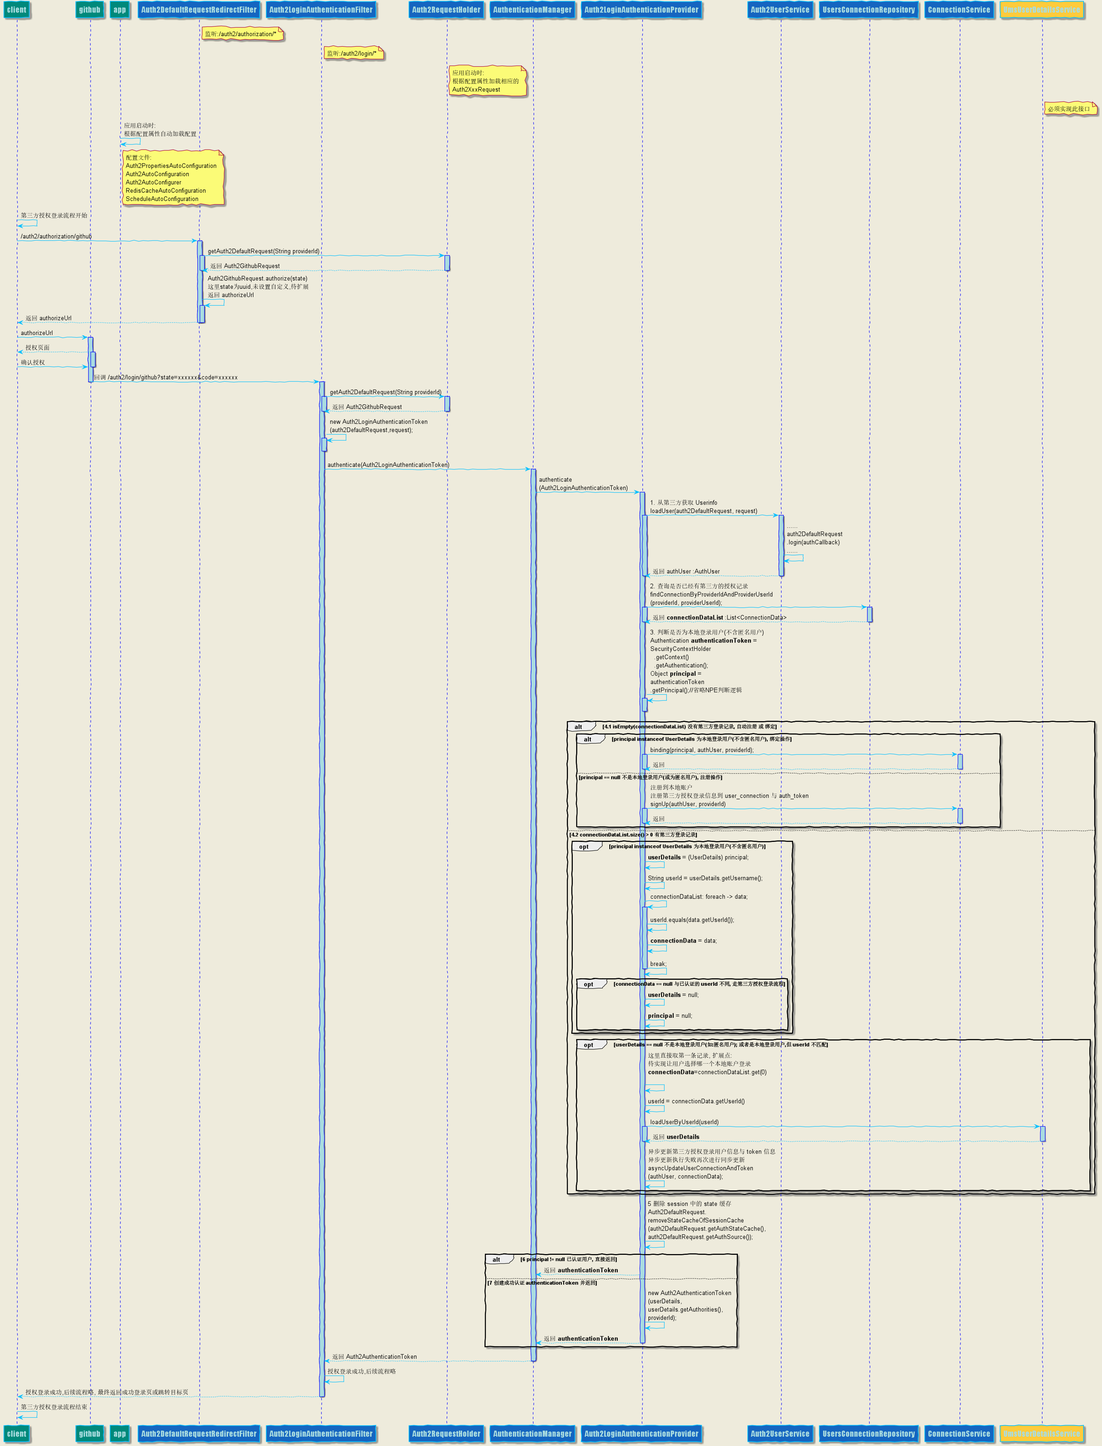
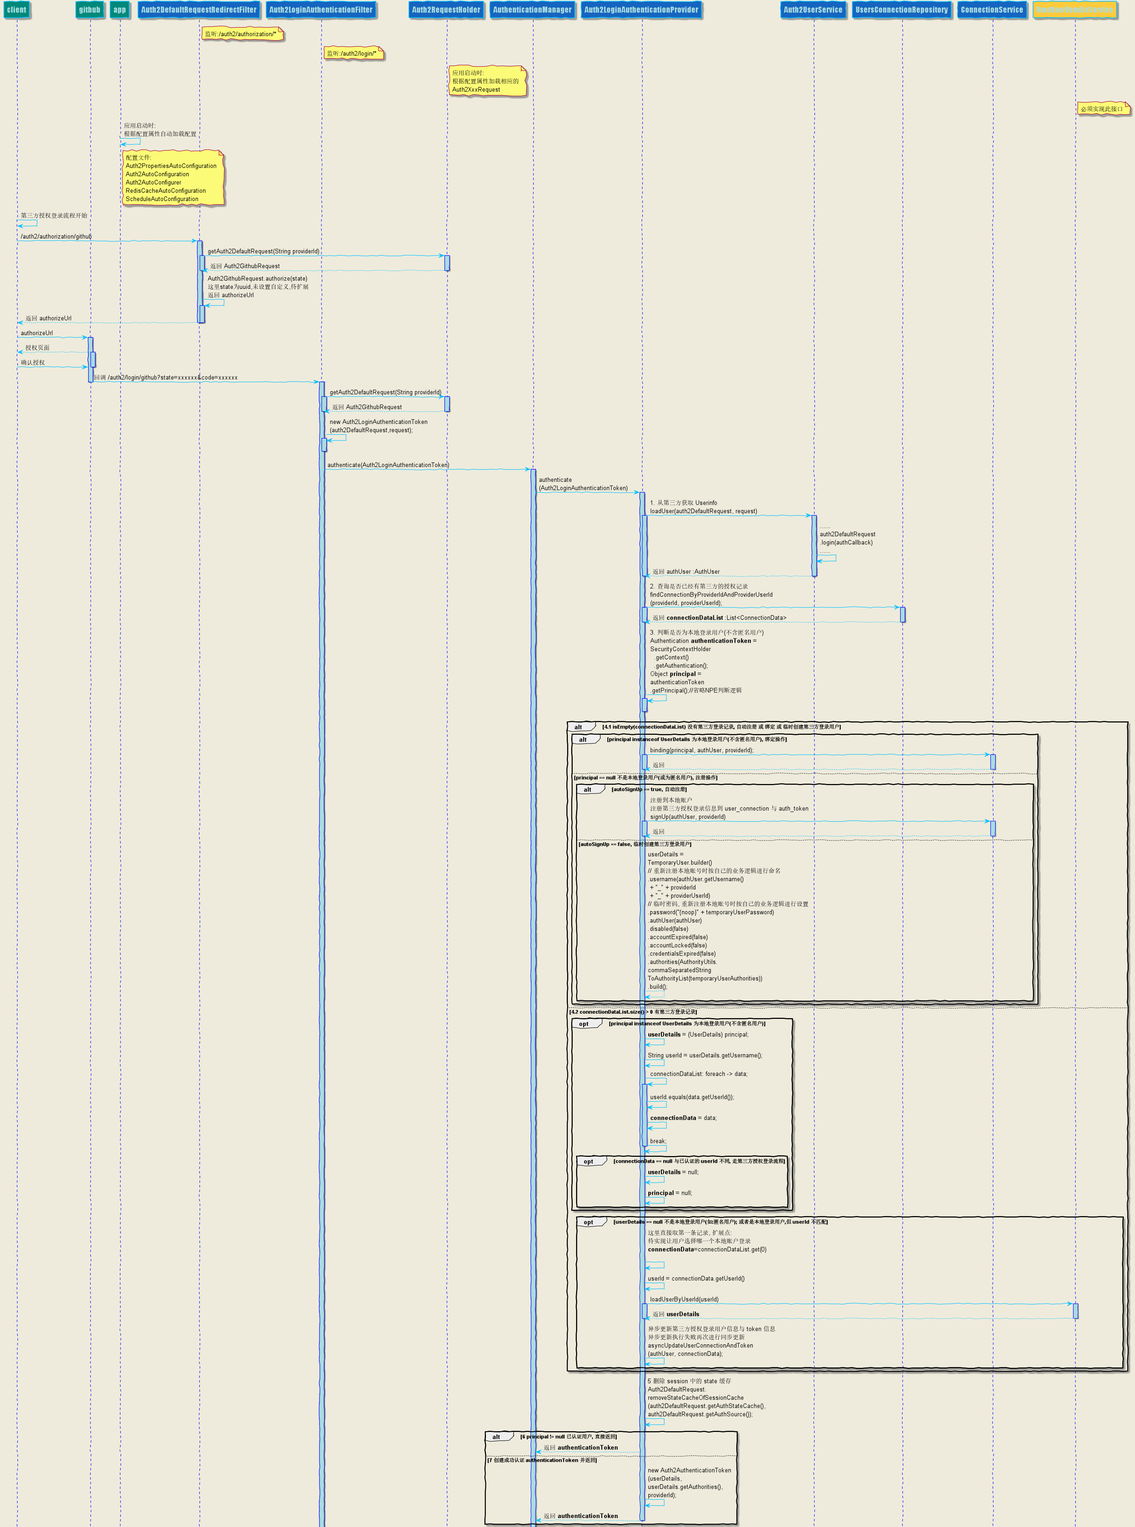
更新时序图, 更新 example 与 README

diff --git a/demo/justAuth-security-oauth2-example/src/main/java/demo/controller/SignUpController.java b/demo/justAuth-security-oauth2-example/src/main/java/demo/controller/SignUpController.java
@@ -22,29 +22,66 @@
  */
 package demo.controller;
 
+import me.zhyd.oauth.model.AuthUser;
+import org.slf4j.Logger;
+import org.slf4j.LoggerFactory;
+import org.springframework.security.core.Authentication;
 import org.springframework.security.core.annotation.AuthenticationPrincipal;
 import org.springframework.security.core.context.SecurityContextHolder;
 import org.springframework.security.core.userdetails.UserDetails;
-import org.springframework.ui.Model;
+import org.springframework.stereotype.Controller;
 import org.springframework.web.bind.annotation.GetMapping;
-import org.springframework.web.bind.annotation.RestController;
+import org.springframework.web.bind.annotation.ResponseBody;
+import top.dcenter.ums.security.core.oauth.userdetails.TemporaryUser;
+import top.dcenter.ums.security.core.oauth.util.MvcUtil;
 
 import java.util.HashMap;
 import java.util.Map;
 
 /**
- * 展示用户第一次第三方授权登录时, 不支持自动注册, 获取临时用户信息(含第三方的用户信息)的方式
+ * 展示用户第一次第三方授权登录时, 不支持自动注册, 获取临时用户信息(含第三方的用户信息)的方式, 这里展示两种方式:
+ * 1. 注解方式 @AuthenticationPrincipal UserDetails userDetails .<br>
+ * 2. 通过 SecurityContextHolder 获取
+ * <pre>
+ *     final Authentication authentication = SecurityContextHolder.getContext().getAuthentication();
+ *     final Object principal = authentication.getPrincipal();
+ *     if (principal instanceof UserDetails)
+ *     {
+ *         UserDetails details = ((UserDetails) principal);
+ *     }
+ * </pre>
+ *
  * @author YongWu zheng
  * @version V2.0  Created by 2020/10/26 13:08
  */
-@RestController
+@Controller
 public class SignUpController {
 
+    private final Logger log = LoggerFactory.getLogger(this.getClass());
+
     @GetMapping("/user/me")
+    @ResponseBody
     public Map<String, Object> getCurrentUser(@AuthenticationPrincipal UserDetails userDetails) {
         Map<String, Object> map = new HashMap<>(2);
         map.put("userDetails", userDetails);
         map.put("securityContextHolder", SecurityContextHolder.getContext().getAuthentication());
+
+        log.info(MvcUtil.toJsonString(userDetails));
+
+        final Authentication authentication = SecurityContextHolder.getContext().getAuthentication();
+        final Object principal = authentication.getPrincipal();
+        if (principal instanceof TemporaryUser)
+        {
+            TemporaryUser temporaryUser = ((TemporaryUser) principal);
+            log.info(MvcUtil.toJsonString(temporaryUser));
+            final AuthUser authUser = temporaryUser.getAuthUser();
+            log.info(MvcUtil.toJsonString(authUser));
+        }
+
+        // principal 等价于 userDetails
+        log.info("userDetails.equals(principal) = {}", userDetails.equals(principal));
+
         return map;
     }
+
 }

diff --git a/demo/justAuth-security-oauth2-example/src/main/java/demo/service/UserDetailsServiceImpl.java b/demo/justAuth-security-oauth2-example/src/main/java/demo/service/UserDetailsServiceImpl.java
@@ -27,6 +27,7 @@ import me.zhyd.oauth.model.AuthUser;
 import org.slf4j.Logger;
 import org.slf4j.LoggerFactory;
 import org.springframework.beans.factory.annotation.Autowired;
+import org.springframework.lang.NonNull;
 import org.springframework.security.core.GrantedAuthority;
 import org.springframework.security.core.authority.AuthorityUtils;
 import org.springframework.security.core.userdetails.User;
@@ -35,6 +36,8 @@ import org.springframework.security.core.userdetails.UserDetails;
 import org.springframework.security.core.userdetails.UsernameNotFoundException;
 import org.springframework.security.crypto.password.PasswordEncoder;
 import org.springframework.stereotype.Service;
+import org.springframework.web.context.request.RequestAttributes;
+import org.springframework.web.context.request.RequestContextHolder;
 import top.dcenter.ums.security.core.oauth.enums.ErrorCodeEnum;
 import top.dcenter.ums.security.core.oauth.exception.RegisterUserFailureException;
 import top.dcenter.ums.security.core.oauth.exception.UserNotExistException;
@@ -107,10 +110,21 @@ public class UserDetailsServiceImpl implements UmsUserDetailsService {
     }
 
     @Override
-    public UserDetails registerUser(AuthUser authUser, String username, String defaultAuthority) throws RegisterUserFailureException {
+    public UserDetails registerUser(@NonNull AuthUser authUser, @NonNull String username,
+                                    @NonNull String defaultAuthority, String decodeState) throws RegisterUserFailureException {
 
         // 第三方授权登录不需要密码, 这里随便设置的, 生成环境按自己的逻辑
         String encodedPassword = passwordEncoder.encode(authUser.getUuid());
+
+        // 这里的 decodeState 可以根据自己实现的 top.dcenter.ums.security.core.oauth.service.Auth2StateCoder 接口的逻辑来传递必要的参数.
+        // 比如: 第三方登录成功后的跳转地址
+        final RequestAttributes requestAttributes = RequestContextHolder.getRequestAttributes();
+        // 假设 decodeState 就是 redirectUrl, 我们直接把 redirectUrl 设置到 request 上
+        // 后续经过成功处理器时直接从 requestAttributes.getAttribute("redirectUrl", RequestAttributes.SCOPE_REQUEST) 获取并跳转
+        if (requestAttributes != null) {
+            requestAttributes.setAttribute("redirectUrl", decodeState, RequestAttributes.SCOPE_REQUEST);
+        }
+        // 当然 decodeState 也可以传递从前端传到后端的用户信息, 注册到本地用户
 
         List<GrantedAuthority> grantedAuthorities = AuthorityUtils.commaSeparatedStringToAuthorityList(defaultAuthority);
 

diff --git a/demo/justAuth-security-oauth2-example/src/main/java/demo/service/Auth2StatCoderImpl.java b/demo/justAuth-security-oauth2-example/src/main/java/demo/service/Auth2StatCoderImpl.java
@@ -1,0 +1,60 @@
+/*
+ * MIT License
+ * Copyright (c) 2020-2029 YongWu zheng (dcenter.top and gitee.com/pcore and github.com/ZeroOrInfinity)
+ *
+ * Permission is hereby granted, free of charge, to any person obtaining a copy
+ * of this software and associated documentation files (the "Software"), to deal
+ * in the Software without restriction, including without limitation the rights
+ * to use, copy, modify, merge, publish, distribute, sublicense, and/or sell
+ * copies of the Software, and to permit persons to whom the Software is
+ * furnished to do so, subject to the following conditions:
+ *
+ * The above copyright notice and this permission notice shall be included in all
+ * copies or substantial portions of the Software.
+ *
+ * THE SOFTWARE IS PROVIDED "AS IS", WITHOUT WARRANTY OF ANY KIND, EXPRESS OR
+ * IMPLIED, INCLUDING BUT NOT LIMITED TO THE WARRANTIES OF MERCHANTABILITY,
+ * FITNESS FOR A PARTICULAR PURPOSE AND NONINFRINGEMENT. IN NO EVENT SHALL THE
+ * AUTHORS OR COPYRIGHT HOLDERS BE LIABLE FOR ANY CLAIM, DAMAGES OR OTHER
+ * LIABILITY, WHETHER IN AN ACTION OF CONTRACT, TORT OR OTHERWISE, ARISING FROM,
+ * OUT OF OR IN CONNECTION WITH THE SOFTWARE OR THE USE OR OTHER DEALINGS IN THE
+ * SOFTWARE.
+ */
+package demo.service;
+
+import org.springframework.lang.NonNull;
+import org.springframework.stereotype.Component;
+import org.springframework.util.Base64Utils;
+import org.springframework.util.StringUtils;
+import top.dcenter.ums.security.core.oauth.service.Auth2StateCoder;
+
+import javax.servlet.http.HttpServletRequest;
+import java.nio.charset.StandardCharsets;
+
+/**
+ * 演示对 state 的加密解密, 传递参数
+ * @author YongWu zheng
+ * @version V2.0  Created by 2020/10/26 18:50
+ */
+@Component
+public class Auth2StatCoderImpl implements Auth2StateCoder {
+
+    @Override
+    public String encode(@NonNull String state, @NonNull HttpServletRequest request) {
+        final String referer = request.getHeader("Referer");
+        if (StringUtils.hasText(referer)) {
+            state = Base64Utils.encodeToUrlSafeString(referer.getBytes(StandardCharsets.UTF_8));
+        }
+        else {
+            state = Base64Utils.encodeToUrlSafeString(state.getBytes(StandardCharsets.UTF_8));
+        }
+        // 其他混淆逻辑, 保证 state 安全
+        return state;
+    }
+
+    @Override
+    public String decode(@NonNull String encoderState) {
+        // 其他解密混淆逻辑, 保证 state 安全
+        return new String(Base64Utils.decodeFromUrlSafeString(encoderState), StandardCharsets.UTF_8);
+    }
+}

diff --git a/src/main/java/top/dcenter/ums/security/core/oauth/service/Auth2StateCoder.java b/src/main/java/top/dcenter/ums/security/core/oauth/service/Auth2StateCoder.java
@@ -23,12 +23,13 @@
 package top.dcenter.ums.security.core.oauth.service;
 
 import me.zhyd.oauth.model.AuthUser;
+import org.springframework.lang.NonNull;
 import top.dcenter.ums.security.core.oauth.justauth.request.Auth2DefaultRequest;
 
 import javax.servlet.http.HttpServletRequest;
 
 /**
- * 对 OAuth2 login 流程中的 state 进行自定义编解码.<br>
+ * 对 OAuth2 login 流程中的 state 进行自定义编解码. 可以传递必要的信息, 如: 第三方登录成功的跳转地址等<br>
  *     注意此接口的两个方法必须同时实现对应的编解码逻辑, 实现此接口后注入 IOC 容器即可, 如有前端向后端获取 authorizeUrl 时向后端传递额外参数
  *     且用作注册时的信息, 需配合 {@link UmsUserDetailsService#registerUser(AuthUser, String, String, String)} 方法实现.<br>
  * {@code https://gitee.com/pcore/just-auth-spring-security-starter/issues/I22JC7}
@@ -46,12 +47,12 @@ public interface Auth2StateCoder {
      *                   从而编码进 state 中, 在 OAuth2 login 流程中传递参数.
      * @return  返回编码后的 state
      */
-    String encode(String state, HttpServletRequest request);
+    String encode(@NonNull String state, @NonNull HttpServletRequest request);
 
     /**
      * 对 encoderState 进行解码
      * @param encoderState  编码后的 state
      * @return  返回解码后的 state
      */
-    String decode(String encoderState);
+    String decode(@NonNull String encoderState);
 }

diff --git a/src/main/java/top/dcenter/ums/security/core/oauth/provider/Auth2LoginAuthenticationProvider.java b/src/main/java/top/dcenter/ums/security/core/oauth/provider/Auth2LoginAuthenticationProvider.java
@@ -165,7 +165,7 @@ public class Auth2LoginAuthenticationProvider implements AuthenticationProvider 
 
 		boolean cacheWasUsed = false;
 		UserDetails userDetails = null;
-		//4.1 没有第三方登录记录, 自动注册 或 绑定 或 缓存第三方登录记录
+		//4.1 没有第三方登录记录, 自动注册 或 绑定 或 临时创建第三方登录用户
 		if (CollectionUtils.isEmpty(connectionDataList))
 		{
 			// 无本地用户登录, 注册和绑定
@@ -181,7 +181,10 @@ public class Auth2LoginAuthenticationProvider implements AuthenticationProvider 
 					// 创建临时用户的 userDetails, 再次获取通过 SecurityContextHolder.getContext().getAuthentication().getPrincipal()
 					// @formatter:off
 					userDetails = TemporaryUser.builder()
+					                           // username = authUser.getUsername() + "_" + providerId + "_" + providerUserId
+					                           // 重新注册本地账号时按自己的业务逻辑进行命名
 					                           .username(authUser.getUsername() + "_" + providerId + "_" + providerUserId)
+					                           // 临时密码, 重新注册本地账号时按自己的业务逻辑进行设置
 					                           .password("{noop}" + temporaryUserPassword)
 					                           .authUser(authUser)
 					                           .disabled(false)

diff --git a/demo/justAuth-security-oauth2-example/src/main/java/demo/config/WebSecurityConfig.java b/demo/justAuth-security-oauth2-example/src/main/java/demo/config/WebSecurityConfig.java
@@ -69,6 +69,8 @@ public class WebSecurityConfig extends WebSecurityConfigurerAdapter {
             .defaultSuccessUrl("/index.html");
         http.logout().logoutSuccessUrl("/login.html");
 
+        http.csrf().disable();
+
         // ========= start: 使用 justAuth-spring-security-starter 必须步骤 =========
         // 添加 Auth2AutoConfigurer 使 OAuth2(justAuth) login 生效.
         http.apply(this.auth2AutoConfigurer);

diff --git a/README.md b/README.md
@@ -241,12 +241,20 @@ public class UserDetailsServiceImpl implements UmsUserDetailsService {
         }
     }
 
-    @Override
-    public UserDetails registerUser(AuthUser authUser, String username, String defaultAuthority) throws RegisterUserFailureException {
+   @Override
+    public UserDetails registerUser(AuthUser authUser, String username, String defaultAuthority, String decodeState) throws RegisterUserFailureException {
 
         // 第三方授权登录不需要密码, 这里随便设置的, 生成环境按自己的逻辑
         String encodedPassword = passwordEncoder.encode(authUser.getUuid());
 
+        // 这里的 decodeState 可以根据自己实现的 top.dcenter.ums.security.core.oauth.service.Auth2StateCoder 接口的逻辑来传递必要的参数.
+        // 比如: 第三方登录成功后的跳转地址
+        final RequestAttributes requestAttributes = RequestContextHolder.getRequestAttributes();
+        // 假设 decodeState 就是 redirectUrl, 我们直接把 redirectUrl 设置到 request 上
+        // 后续经过成功处理器时直接从 requestAttributes.getAttribute("redirectUrl", RequestAttributes.SCOPE_REQUEST) 获取并跳转
+        requestAttributes.setAttribute("redirectUrl", decodeState, RequestAttributes.SCOPE_REQUEST);
+        // 当然 decodeState 也可以传递从前端传到后端的用户信息, 注册到本地用户
+        
         List<GrantedAuthority> grantedAuthorities = AuthorityUtils.commaSeparatedStringToAuthorityList(defaultAuthority);
 
         // ... 用户注册逻辑
@@ -346,6 +354,8 @@ public class WebSecurityConfig extends WebSecurityConfigurerAdapter {
             .defaultSuccessUrl("/index.html");
         http.logout().logoutSuccessUrl("/login.html");
 
+        http.csrf().disable();
+
         // ========= start: 使用 justAuth-spring-security-starter 必须步骤 ========= 
         // 添加 Auth2AutoConfigurer 使 OAuth2(justAuth) login 生效.
         http.apply(this.auth2AutoConfigurer);
@@ -428,7 +438,7 @@ hello world!<br>
 ```
 ### 2. `必须实现的接口`    
 
-   - 本地用户服务: [UmsUserDetailsService](https://gitee.com/pcore/just-auth-spring-security-starter/blob/master/src/main/java/top/dcenter/ums/security/core/oauth/service/UmsUserDetailsService.java)    
+   - 本地用户服务: [UmsUserDetailsService](https://github.com/ZeroOrInfinity/justAuth-spring-security-starter/blob/master/src/main/java/top/dcenter/ums/security/core/oauth/service/UmsUserDetailsService.java)    
 ### 3. `必须添加 Auth2AutoConfigurer 到 HttpSecurity` 
 
 ```java
@@ -460,17 +470,36 @@ public class WebSecurityConfig extends WebSecurityConfigurerAdapter {
     }
 }
 ```
-### 4. `属性配置`
+### 4. `接口介绍`
 
 - justAuth-spring-security-starter 大部分功能实现都是通过配置文件设置属性来完成的, 详细属性配置请查看`五、属性配置列表`.
 ------
+## 五、接口说明: 
 
-## 五、时序图(Sequence Diagram): 随着版本迭代会有出入
+- [UmsUserDetailsService](https://github.com/ZeroOrInfinity/justAuth-spring-security-starter/blob/master/src/main/java/top/dcenter/ums/security/core/oauth/service/UmsUserDetailsService.java): `必须实现`
+
+- [Auth2StateCoder](https://github.com/ZeroOrInfinity/justAuth-spring-security-starter/blob/master/src/main/java/top/dcenter/ums/security/core/oauth/service/Auth2StateCoder.java): `用户需要时实现`, 对第三方授权登录流程中的 state 进行自定义编解码. 可以传递必要的信息, 
+  如: 第三方登录成功的跳转地址等 注意此接口的两个方法必须同时实现对应的编解码逻辑, 实现此接口后注入 IOC 容器即可, 如有前端向后端获取 authorizeUrl
+  时向后端传递额外参数 且用作注册时的信息, 需配合 UmsUserDetailsService.registerUser(AuthUser, String, String, String) 方法实现.
+
+- [Auth2UserService](https://github.com/ZeroOrInfinity/justAuth-spring-security-starter/blob/master/src/main/java/top/dcenter/ums/security/core/oauth/service/Auth2UserService.java): 获取第三方用户信息的接口, 一般**不需要用户实现**, 除非想自定义获取第三方用户信息的逻辑, 实现此接口注入 IOC 容器即可替代.
+
+- [UsersConnectionRepository](https://github.com/ZeroOrInfinity/justAuth-spring-security-starter/blob/master/src/main/java/top/dcenter/ums/security/core/oauth/repository/UsersConnectionRepository.java): 第三方授权登录的第三方用户信息增删改查, 绑定与解绑及查询是否绑定与解绑接口, 一般**不需要用户实现**. 
+  除非想自定义获取第三方用户信息的逻辑, 实现此接口注入 IOC 容器即可替代.
+
+- [UsersConnectionTokenRepository](https://github.com/ZeroOrInfinity/justAuth-spring-security-starter/blob/master/src/main/java/top/dcenter/ums/security/core/oauth/repository/UsersConnectionTokenRepository.java): 第三方授权登录用户 accessToken 信息表增删改查接口, 一般**不需要用户实现**. 
+  除非想自定义获取第三方用户信息的逻辑, 实现此接口注入 IOC 容器即可替代.
+
+- [ConnectionService](https://github.com/ZeroOrInfinity/justAuth-spring-security-starter/blob/master/src/main/java/top/dcenter/ums/security/core/oauth/signup/ConnectionService.java): 第三方授权登录用户的注册, 绑定, 更新第三方用户信息与 accessToken 信息的接口, 一般**不需要用户实现**.
+  除非想自定义获取第三方用户信息的逻辑, 实现此接口注入 IOC 容器即可替代.
+
+------
+## 六、`时序图(Sequence Diagram)`: 随着版本迭代会有出入
 
 ![第三方授权登录](doc/OAuth2Login.png)
 
 ------
-## 六、属性配置列表
+## 七、`属性配置列表`
 
 ###  OAuth2 / refreshToken 定时任务 / JustAuth 配置属性
 

diff --git a/Readme.osc.md b/Readme.osc.md
@@ -242,12 +242,20 @@ public class UserDetailsServiceImpl implements UmsUserDetailsService {
         }
     }
 
-    @Override
-    public UserDetails registerUser(AuthUser authUser, String username, String defaultAuthority) throws RegisterUserFailureException {
+   @Override
+    public UserDetails registerUser(AuthUser authUser, String username, String defaultAuthority, String decodeState) throws RegisterUserFailureException {
 
         // 第三方授权登录不需要密码, 这里随便设置的, 生成环境按自己的逻辑
         String encodedPassword = passwordEncoder.encode(authUser.getUuid());
 
+        // 这里的 decodeState 可以根据自己实现的 top.dcenter.ums.security.core.oauth.service.Auth2StateCoder 接口的逻辑来传递必要的参数.
+        // 比如: 第三方登录成功后的跳转地址
+        final RequestAttributes requestAttributes = RequestContextHolder.getRequestAttributes();
+        // 假设 decodeState 就是 redirectUrl, 我们直接把 redirectUrl 设置到 request 上
+        // 后续经过成功处理器时直接从 requestAttributes.getAttribute("redirectUrl", RequestAttributes.SCOPE_REQUEST) 获取并跳转
+        requestAttributes.setAttribute("redirectUrl", decodeState, RequestAttributes.SCOPE_REQUEST);
+        // 当然 decodeState 也可以传递从前端传到后端的用户信息, 注册到本地用户
+        
         List<GrantedAuthority> grantedAuthorities = AuthorityUtils.commaSeparatedStringToAuthorityList(defaultAuthority);
 
         // ... 用户注册逻辑
@@ -347,6 +355,8 @@ public class WebSecurityConfig extends WebSecurityConfigurerAdapter {
             .loginPage("/login.html")
             .defaultSuccessUrl("/index.html");
         http.logout().logoutSuccessUrl("/login.html");
+
+        http.csrf().disable();
 
         // ========= start: 使用 justAuth-spring-security-starter 必须步骤 ========= 
         // 添加 Auth2AutoConfigurer 使 OAuth2(justAuth) login 生效.
@@ -466,13 +476,33 @@ public class WebSecurityConfig extends WebSecurityConfigurerAdapter {
 
 - justAuth-spring-security-starter 大部分功能实现都是通过配置文件设置属性来完成的, 详细属性配置请查看`五、属性配置列表`.
 ------
+## 五、接口说明: 
 
-## 五、时序图: 随着版本迭代会有出入
+- [UmsUserDetailsService](https://gitee.com/pcore/just-auth-spring-security-starter/blob/master/src/main/java/top/dcenter/ums/security/core/oauth/service/UmsUserDetailsService.java): `必须实现`
+
+- [Auth2StateCoder](https://gitee.com/pcore/just-auth-spring-security-starter/blob/master/src/main/java/top/dcenter/ums/security/core/oauth/service/Auth2StateCoder.java): `用户需要时实现`, 对第三方授权登录流程中的 state 进行自定义编解码. 可以传递必要的信息, 
+  如: 第三方登录成功的跳转地址等 注意此接口的两个方法必须同时实现对应的编解码逻辑, 实现此接口后注入 IOC 容器即可, 如有前端向后端获取 authorizeUrl
+  时向后端传递额外参数 且用作注册时的信息, 需配合 UmsUserDetailsService.registerUser(AuthUser, String, String, String) 方法实现.
+
+- [Auth2UserService](https://gitee.com/pcore/just-auth-spring-security-starter/blob/master/src/main/java/top/dcenter/ums/security/core/oauth/service/Auth2UserService.java): 获取第三方用户信息的接口, 一般**不需要用户实现**, 除非想自定义获取第三方用户信息的逻辑, 实现此接口注入 IOC 容器即可替代.
+
+- [UsersConnectionRepository](https://gitee.com/pcore/just-auth-spring-security-starter/blob/master/src/main/java/top/dcenter/ums/security/core/oauth/repository/UsersConnectionRepository.java): 第三方授权登录的第三方用户信息增删改查, 绑定与解绑及查询是否绑定与解绑接口, 一般**不需要用户实现**. 
+  除非想自定义获取第三方用户信息的逻辑, 实现此接口注入 IOC 容器即可替代.
+
+- [UsersConnectionTokenRepository](https://gitee.com/pcore/just-auth-spring-security-starter/blob/master/src/main/java/top/dcenter/ums/security/core/oauth/repository/UsersConnectionTokenRepository.java): 第三方授权登录用户 accessToken 信息表增删改查接口, 一般**不需要用户实现**. 
+  除非想自定义获取第三方用户信息的逻辑, 实现此接口注入 IOC 容器即可替代.
+
+- [ConnectionService](https://gitee.com/pcore/just-auth-spring-security-starter/blob/master/src/main/java/top/dcenter/ums/security/core/oauth/signup/ConnectionService.java): 第三方授权登录用户的注册, 绑定, 更新第三方用户信息与 accessToken 信息的接口, 一般**不需要用户实现**.
+  除非想自定义获取第三方用户信息的逻辑, 实现此接口注入 IOC 容器即可替代.
+
+
+------
+## 六、`时序图`: 随着版本迭代会有出入
 
 ![第三方授权登录](doc/OAuth2Login.png)
 
 ------
-## 六、属性配置列表
+## 七、`属性配置列表`
 
 ###  OAuth2 / refreshToken 定时任务 / JustAuth 配置属性
 
